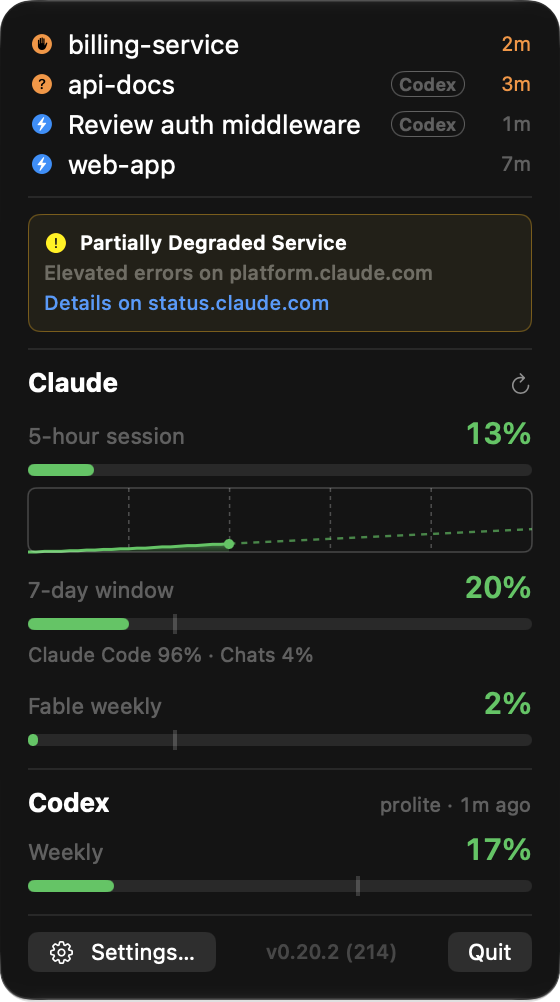
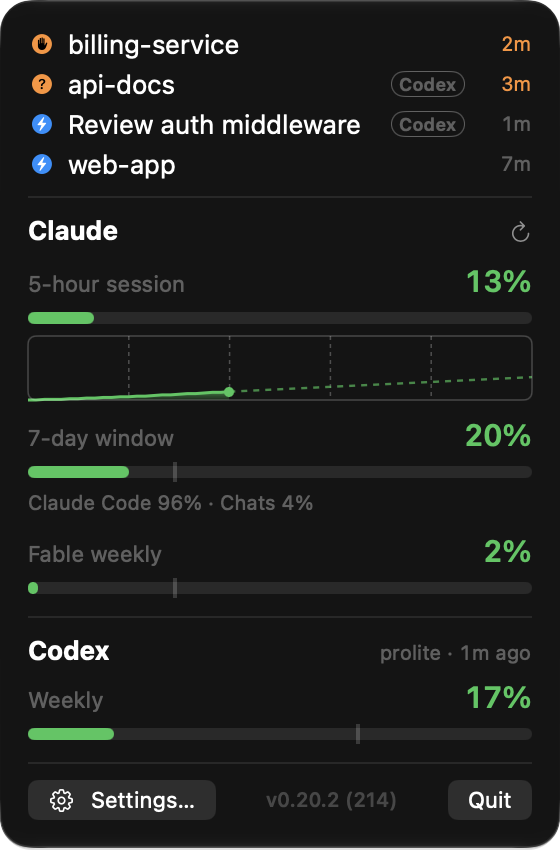
docs: dropdown screenshots without a staged outage
The first full screenshot a visitor sees no longer implies Claude is
often degraded; the outage pill shot still shows the indicator.

diff --git a/README.md b/README.md
@@ -80,8 +80,8 @@ work between the two quotas. See [Codex usage](#codex-usage).
 ### Dropdown
 
 <picture>
-  <source media="(prefers-color-scheme: dark)" srcset="docs/screenshots/dropdown-dark.png?v=0.20.2">
-  <img alt="dropdown panel" src="docs/screenshots/dropdown-light.png?v=0.20.2" width="280">
+  <source media="(prefers-color-scheme: dark)" srcset="docs/screenshots/dropdown-dark.png?v=0.20.2-1">
+  <img alt="dropdown panel" src="docs/screenshots/dropdown-light.png?v=0.20.2-1" width="280">
 </picture>
 
 - **Resizable width**: drag either side edge of the panel (280–720 pt,
